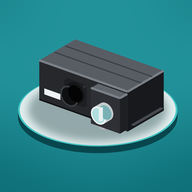
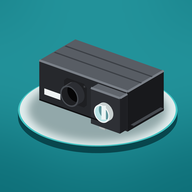
App 圖示：風管改為完整圓管（外壁、管口、內壁、管內深處）
Claude-Session: https://claude.ai/code/session_016bDArbNA9F9dxaqhLt5yQD

Changed region(s): [[0.4688, 0.5312, 0.5938, 0.6562], [0.3438, 0.4062, 0.4375, 0.5625]]

diff --git a/sw.js b/sw.js
@@ -1,5 +1,5 @@
 /* 米多力展示台 service worker — app shell cached on install, CDN (three.js / fonts) cached on first use, works offline afterwards. */
-const VERSION='medole-showroom-d7f6a4e658';
+const VERSION='medole-showroom-055bbac29d';
 const SHELL=["./", "data.js", "engine.js", "families.js", "icons/apple-touch-icon.png", "icons/cover.png", "icons/icon-192.png", "icons/icon-32.png", "icons/icon-512.png", "icons/icon-maskable-512.png", "index.html", "manifest.webmanifest", "models/md-100lb.js", "models/md-130lb.js", "models/md-140lb.js", "models/md-210lb.js", "models/md-250lb.js", "models/md-300lbd.js", "models/md-30lb.js", "models/md-35lb-tp.js", "models/md-40lbd.js", "models/md-70lbad.js", "models/md-70lbd.js", "models/md-70lbdn.js", "models/md-a40lb.js"];
 const CDN=/^https:\/\/(cdnjs\.cloudflare\.com|fonts\.googleapis\.com|fonts\.gstatic\.com)\//;
 self.addEventListener('install',e=>{e.waitUntil(caches.open(VERSION).then(c=>c.addAll(SHELL.map(u=>new Request(u,{cache:'reload'})))).then(()=>self.skipWaiting()));});
